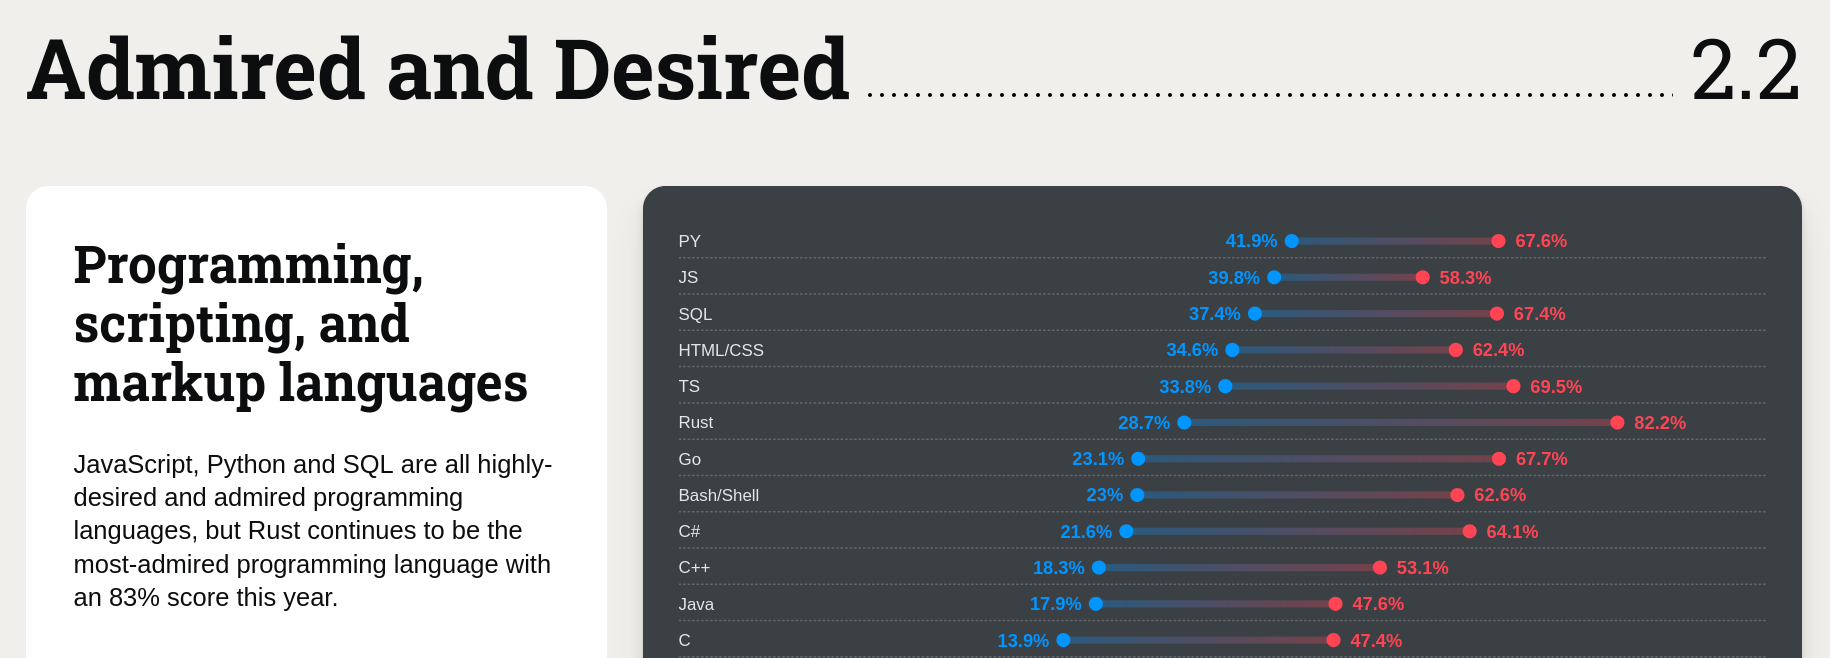
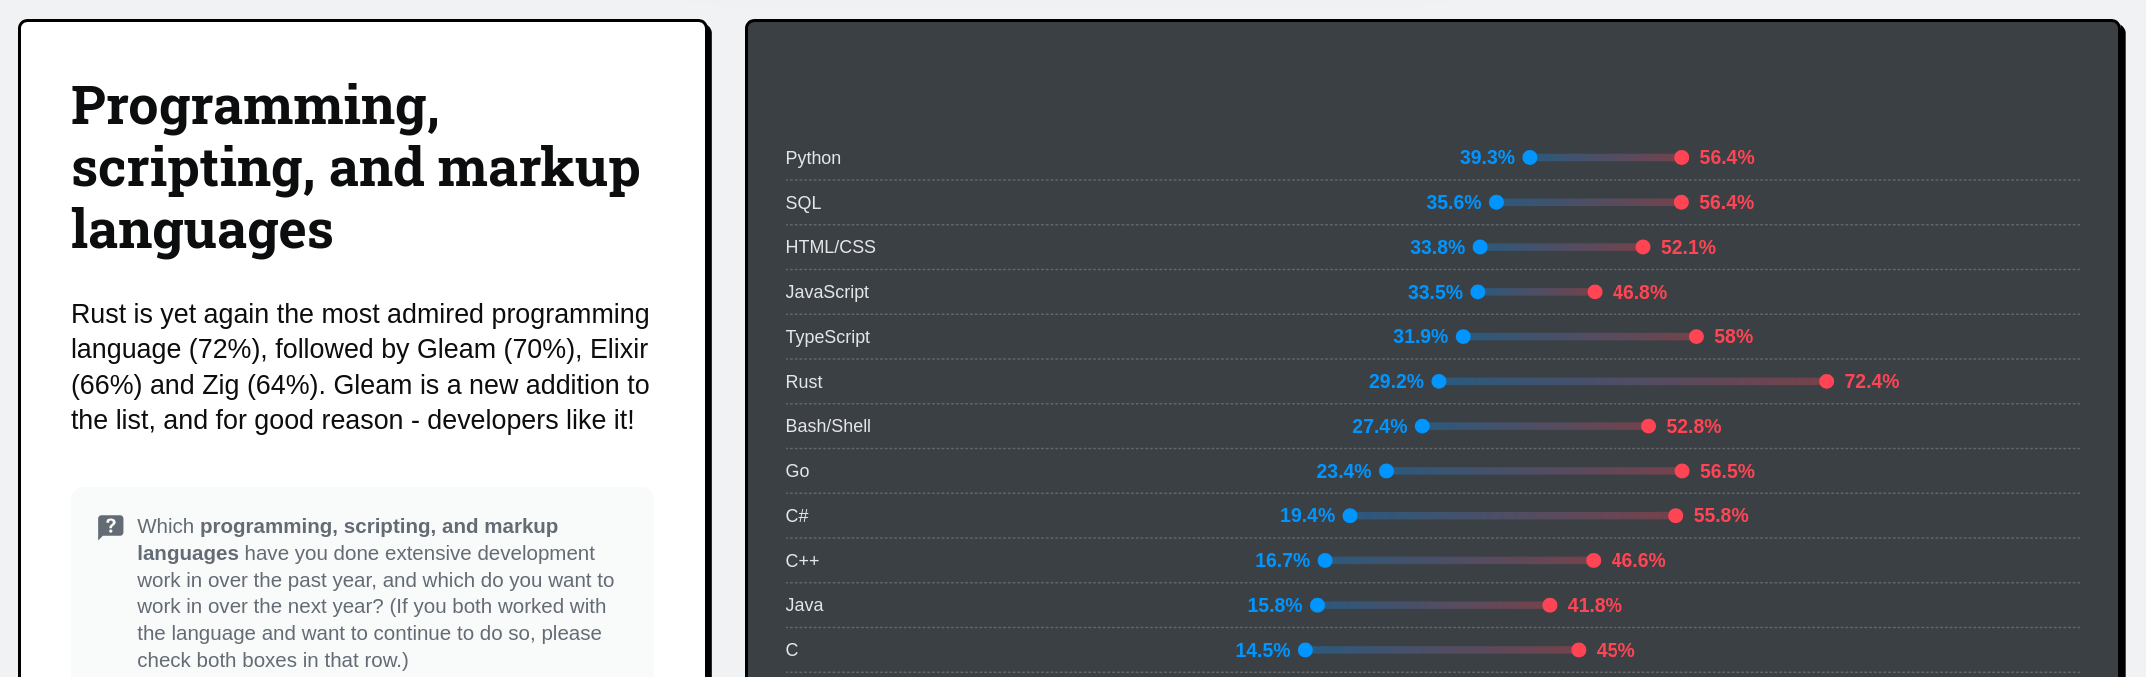
Update slides

diff --git a/slides.py b/slides.py
@@ -18,7 +18,7 @@ def _(mo):
 
     Juan Luis Cano Rodríguez <hello@juanlu.space>
 
-    2025-06-26 @ PyData Madrid
+    2025-08-20 @ EuroSciPy Kraków
     """
     )
     return
@@ -48,7 +48,7 @@ def _(mo):
     Juan Luis (he/him/él 🇪🇸)
 
     - Aerospace Engineer passionate about tech communities and sustainability ♻
-    - Product Manager at QuantumBlack, AI by McKinsey, for Kedro, an open source pipeline framework 🥑
+    - In between jobs (ex Product Manager for Kedro at McKinsey, ex Developer Advocate at Read the Docs) 🥑
     - Organizer of the PyData Madrid monthly meetup (ex Python España, ex PyCon Spain) 🐍
     - Contributor to the SciPy and PyData ecosystem 🧪
     - Music lover 🎵
@@ -95,7 +95,7 @@ def _(mo):
 def _(mo):
     mo.md(
         """
-    ## There are many ways to make Python faster
+    ## There are ~~too~~ many ways to make Python faster
 
     - NumPy
     - Cython
@@ -129,7 +129,19 @@ def _(mo):
         r"""
     And that's why I was so excited about the alternatives!
 
-    ![Old screenshot of Pybonacci first blog post on numba](public/pybonacci-numba-2012.png)
+    ![Screenshot of a PyVideo talk on Numba](public/juanlu-numba-pyvideo.png)
+    """
+    )
+    return
+
+
+@app.cell
+def _(mo):
+    mo.md(
+        """
+    I used numba a lot, gave a dozen talks about it, and then focused on other things for a few years.
+
+    🧘♂
     """
     )
     return
@@ -139,7 +151,7 @@ def _(mo):
 def _(mo):
     mo.md(
         r"""
-    ## Developer Experience wins
+    **Fast forward to 2025...**
 
     What if the bad part of compiled languages wasn't the languages themselves, but the **tooling**?
 
@@ -152,10 +164,12 @@ def _(mo):
 @app.cell
 def _(mo):
     mo.md(
-        """
-    I became obsessed with numba, gave a dozen talks about it or more, and then focused on other things for a few years.
+        r"""
+    # Python + Rust = 🤜🤛
 
-    _Until..._
+    The most desired 🐍 and the most admired 🦀! https://survey.stackoverflow.co/2025/technology#2-programming-scripting-and-markup-languages
+
+    ![Admired and desired](public/stack-overflow-survey-most-desired.png)
     """
     )
     return
@@ -165,11 +179,18 @@ def _(mo):
 def _(mo):
     mo.md(
         r"""
-    # Python + Rust = 🤜🤛
+    ## What is Rust?
 
-    The most desired 🐍 and the most admired 🦀! https://survey.stackoverflow.co/2024/technology/#2-programming-scripting-and-markup-languages
+    > The Chromium project finds that around 70% of our serious security bugs are memory safety problems.
 
-    ![Admired and desired](public/stack-overflow-survey-most-desired.png)
+    https://www.chromium.org/Home/chromium-security/memory-safety/
+
+    - Created at Mozilla Research in 2006, version 1.0 in 2015
+    - Emphasis on memory safety, type safety
+    - Popular in data engineering (Polars, Delta Lake) and Python tooling (uv, ruff)
+    - First language other than C and assembly to be included in the Linux kernel
+    - MIT + Apache 2.0 licensed
+    - Supported by the Rust Foundation, a US 501(c)6 non-profit
     """
     )
     return
@@ -217,11 +238,23 @@ def _(mo):
         r"""
     ## How does this all work?
 
+    ```
+    $ tree
+    .
+    ├── Cargo.toml
+    ├── pyproject.toml
+    └── src
+        └── lib.rs
+
+    2 directories, 3 files
+    ```
+
     This makes use of [PyO3](https://pyo3.rs/), a project that provides "Rust bindings to the Python interpreter".
 
     > PyO3 can be used to write native Python modules or run Python code and modules from Rust.
 
-    ```rust
+    ```
+    $ head -n1 src/lib.rs
     use pyo3::prelude::*;
     ```
     """
@@ -235,14 +268,19 @@ def _(mo):
         r"""
     ### Defining functions
 
-    You can create a Python function from a Rust function adding the `#[pyfunction]` attribute:
-
     ```rust
+    /// Formats the sum of two numbers as string.
     #[pyfunction]
     fn sum_as_string(a: usize, b: usize) -> String {
         (a + b).to_string()
     }
     ```
+
+    - `///` Marks the beginning of a _doc comment_
+    - `#[pyfunction]` is an _attribute macro_ coming from PyO3
+    - `fn sum_as_string` defines the function
+    - Both parameters and the function itself have annotated types
+    - `(a + b).to_string()` is the last expression of the function block and becomes its return value
     """
     )
     return
@@ -252,7 +290,7 @@ def _(mo):
 def _(mo):
     mo.md(
         r"""
-        This function was trivial, but in case you need to handle errors, you should return `PyResult`, defined as `pub type PyResult<T> = Result<T, PyErr>`:
+        In PyO3, errors are handled using the `PyResult` type, which wraps the actual return type (it is defined as `pub type PyResult<T> = Result<T, PyErr>`):
 
         ```rust
         #[pyfunction]
@@ -274,9 +312,9 @@ def _(mo):
     To be able to actually call the function from Python it needs to be added to a module. Modules are defined with the `#[pymodule]` attribute:
 
     ```rust
+    /// A Python module implemented in Rust.
     #[pymodule]
-    #[pyo3(name = "_rode")]
-    fn rode(m: &Bound<'_, PyModule>) -> PyResult<()> {
+    fn guessing_game(m: &Bound<'_, PyModule>) -> PyResult<()> {
         m.add_function(wrap_pyfunction!(sum_as_string, m)?)?;
         Ok(())
     }
@@ -299,22 +337,24 @@ def _(mo):
     ```toml
     # Cargo.toml
     [dependencies]
-    # pyo3 = "0.25.1"
+    # pyo3 = "0.25.0"
     pyo3 = { version = "0.25.1", features = ["abi3-py39"] }
     ```
 
     Before:
 
     ```
-    $ uv run maturin build
+    $ uvx maturin build
+    🔗 Found pyo3 bindings
     ...
-    📦 Built wheel for CPython 3.11 to .../guessing-game/target/wheels/guessing_game-0.1.0-cp311-cp311-manylinux_2_34_x86_64.whl
+    📦 Built wheel for CPython 3.13 to .../guessing-game/target/wheels/guessing_game-0.1.0-cp313-cp313-manylinux_2_34_x86_64.whl
     ```
 
     After ✨:
 
     ```
-    $ uv run maturin build
+    $ uvx maturin build
+    🔗 Found pyo3 bindings with abi3 support
     ...
     📦 Built wheel for abi3 Python ≥ 3.9 to .../guessing-game/target/wheels/guessing_game-0.1.0-cp39-abi3-manylinux_2_34_x86_64.whl
     ```
@@ -380,7 +420,7 @@ def _(mo):
 
     ```python
     # src/guessing_game/__init__.py
-    # See https://www.maturin.rs/project_layout#pure-rust-project
+    # See https://www.maturin.rs/project_layout
     from ._guessing_game import *
 
     __doc__ = _guessing_game.__doc__
@@ -443,7 +483,7 @@ def _(mo):
 
     Juan Luis Cano Rodríguez <hello@juanlu.space>
 
-    2025-06-26 @ PyData Madrid
+    2025-08-20 @ EuroSciPy Kraków
     """
     )
     return
